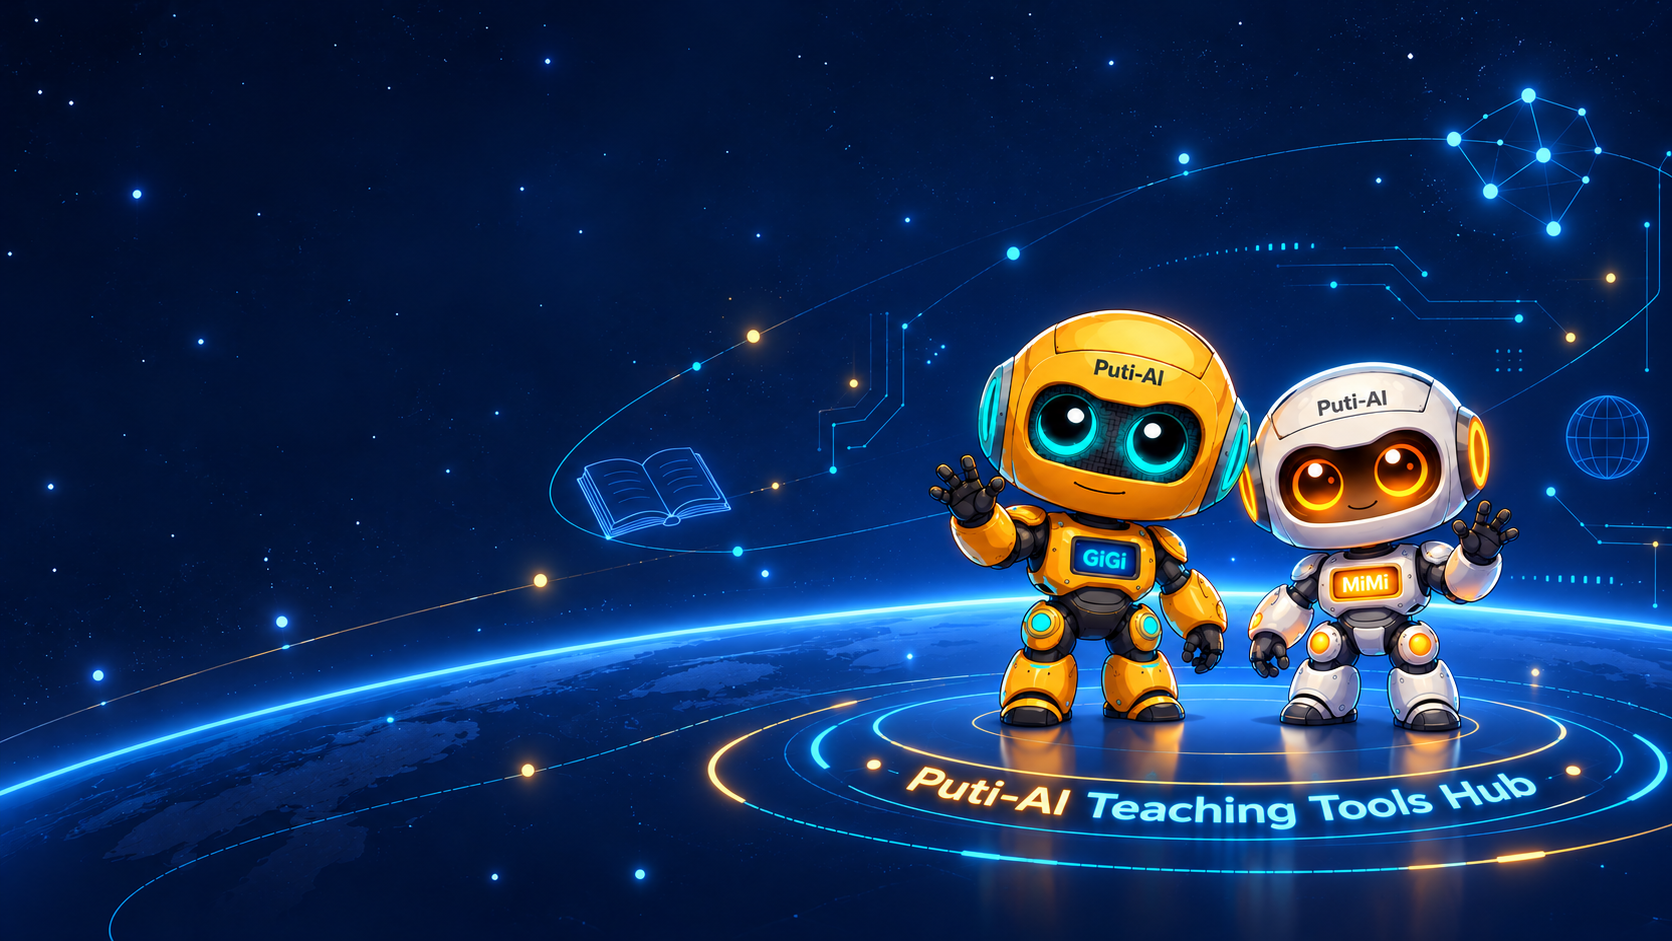
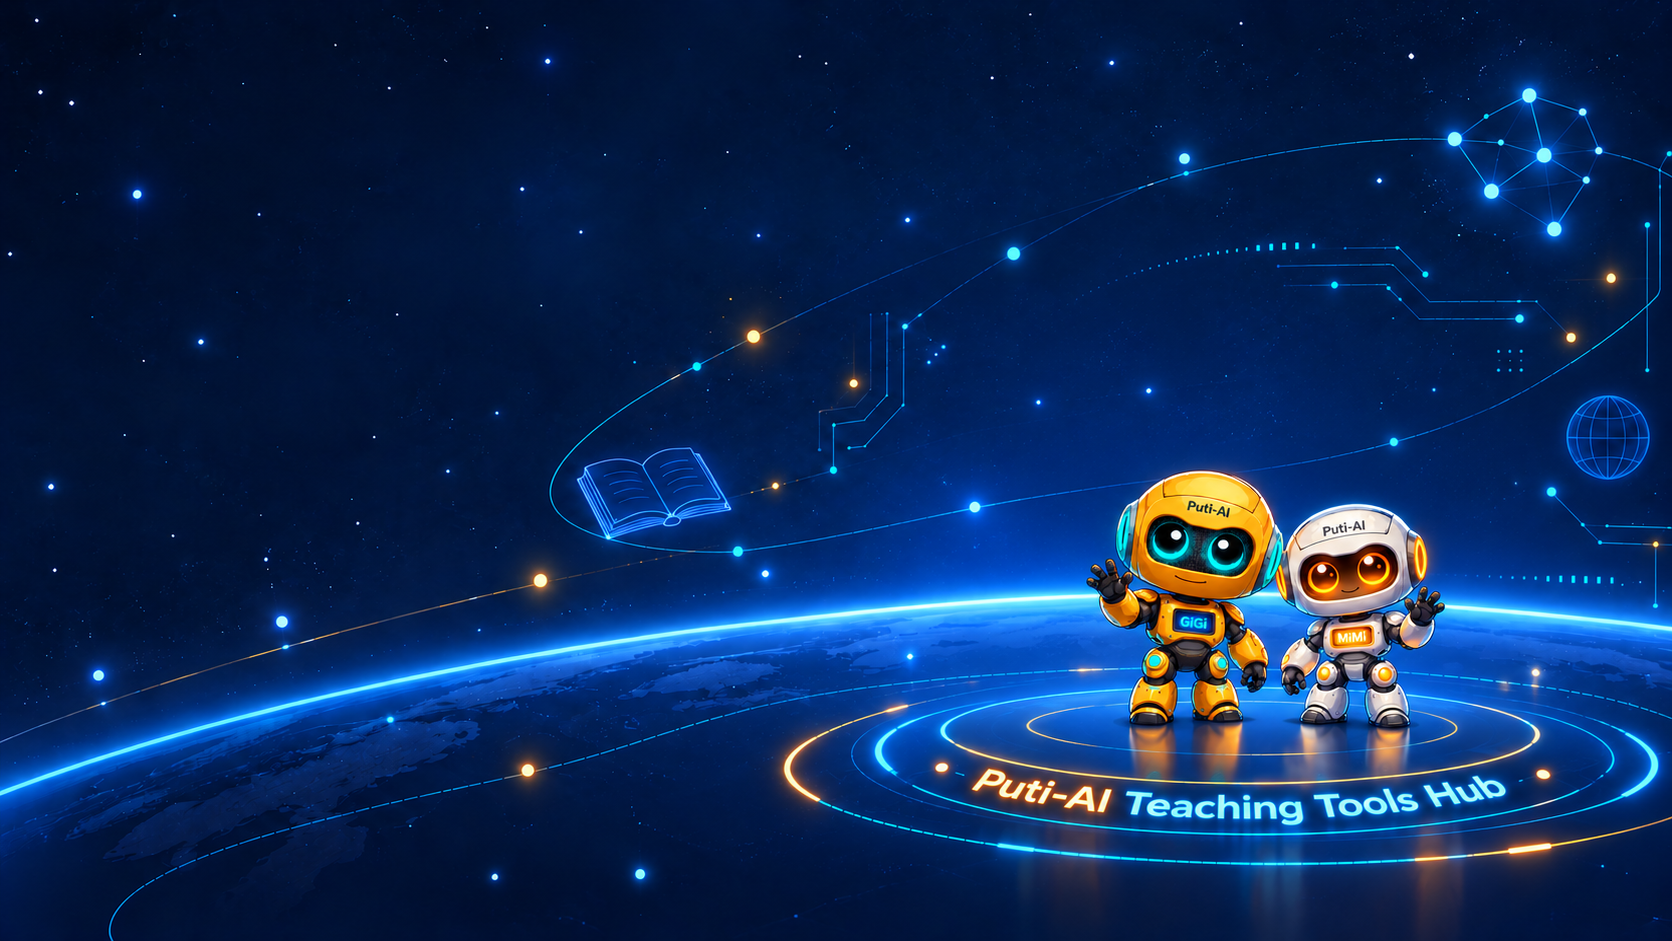
feat: Update new back.png as EdTech Default, add 9 classroom themed wallpapers (Blackboard, Seaside, Sky, Grassland, Flower Sea, Cosmos, Milky Way, Mountains, Ocean World)

diff --git a/js/app.js b/js/app.js
@@ -51,48 +51,64 @@ document.addEventListener('DOMContentLoaded', () => {
   // =========================================================================
   const wallpapers = [
     {
-      id: 'default-back',
-      name: '溫馨黑板 (預設)',
+      id: 'edtech-default',
+      name: '教育科技 (預設)',
       url: './assets/wallpapers/back.png',
       thumb: './assets/wallpapers/back.png'
     },
     {
-      id: 'warm-gradient',
-      name: '日系暖日粉彩',
-      url: 'linear-gradient(135deg, #FFE8CC 0%, #FFD8A8 50%, #FFC078 100%)',
-      isGradient: true,
-      thumb: 'linear-gradient(135deg, #FFE8CC, #FFC078)'
+      id: 'blackboard',
+      name: '黑板',
+      url: 'https://images.unsplash.com/photo-1577896851231-70ef18881754?auto=format&fit=crop&w=1920&q=80',
+      thumb: 'https://images.unsplash.com/photo-1577896851231-70ef18881754?auto=format&fit=crop&w=300&q=60'
     },
     {
-      id: 'classroom-bright',
-      name: '溫馨明亮教室',
-      url: 'https://images.unsplash.com/photo-1580582932707-520aed937b7b?auto=format&fit=crop&w=1920&q=80',
-      thumb: 'https://images.unsplash.com/photo-1580582932707-520aed937b7b?auto=format&fit=crop&w=300&q=60'
+      id: 'seaside',
+      name: '海邊',
+      url: 'https://images.unsplash.com/photo-1507525428034-b723cf961d3e?auto=format&fit=crop&w=1920&q=80',
+      thumb: 'https://images.unsplash.com/photo-1507525428034-b723cf961d3e?auto=format&fit=crop&w=300&q=60'
     },
     {
-      id: 'cozy-desk',
-      name: '木質簡約書桌',
-      url: 'https://images.unsplash.com/photo-1518455027359-f3f8164ba6bd?auto=format&fit=crop&w=1920&q=80',
-      thumb: 'https://images.unsplash.com/photo-1518455027359-f3f8164ba6bd?auto=format&fit=crop&w=300&q=60'
+      id: 'sky',
+      name: '天空',
+      url: 'https://images.unsplash.com/photo-1534088568595-a066f410bcda?auto=format&fit=crop&w=1920&q=80',
+      thumb: 'https://images.unsplash.com/photo-1534088568595-a066f410bcda?auto=format&fit=crop&w=300&q=60'
     },
     {
-      id: 'forest-calm',
-      name: '翠綠森林微風',
-      url: 'https://images.unsplash.com/photo-1448375240586-882707db888b?auto=format&fit=crop&w=1920&q=80',
-      thumb: 'https://images.unsplash.com/photo-1448375240586-882707db888b?auto=format&fit=crop&w=300&q=60'
+      id: 'grassland',
+      name: '草原',
+      url: 'https://images.unsplash.com/photo-1500382017468-9049fed747ef?auto=format&fit=crop&w=1920&q=80',
+      thumb: 'https://images.unsplash.com/photo-1500382017468-9049fed747ef?auto=format&fit=crop&w=300&q=60'
     },
     {
-      id: 'starry-night',
-      name: '靜謐浩瀚星空',
+      id: 'flower-sea',
+      name: '花海',
+      url: 'https://images.unsplash.com/photo-1490750967868-88aa4486c946?auto=format&fit=crop&w=1920&q=80',
+      thumb: 'https://images.unsplash.com/photo-1490750967868-88aa4486c946?auto=format&fit=crop&w=300&q=60'
+    },
+    {
+      id: 'cosmos',
+      name: '宇宙',
+      url: 'https://images.unsplash.com/photo-1451187580459-43490279c0fa?auto=format&fit=crop&w=1920&q=80',
+      thumb: 'https://images.unsplash.com/photo-1451187580459-43490279c0fa?auto=format&fit=crop&w=300&q=60'
+    },
+    {
+      id: 'milkyway',
+      name: '銀河',
       url: 'https://images.unsplash.com/photo-1506703719100-a0f3a48c0f86?auto=format&fit=crop&w=1920&q=80',
       thumb: 'https://images.unsplash.com/photo-1506703719100-a0f3a48c0f86?auto=format&fit=crop&w=300&q=60'
     },
     {
-      id: 'morandi-green',
-      name: '莫蘭迪鼠尾草',
-      url: 'linear-gradient(135deg, #D8F3DC 0%, #B7E4C7 50%, #95D5B2 100%)',
-      isGradient: true,
-      thumb: 'linear-gradient(135deg, #D8F3DC, #95D5B2)'
+      id: 'mountain',
+      name: '山岳',
+      url: 'https://images.unsplash.com/photo-1464822759023-fed622ff2c3b?auto=format&fit=crop&w=1920&q=80',
+      thumb: 'https://images.unsplash.com/photo-1464822759023-fed622ff2c3b?auto=format&fit=crop&w=300&q=60'
+    },
+    {
+      id: 'ocean-world',
+      name: '海洋世界',
+      url: 'https://images.unsplash.com/photo-1544551763-46a013bb70d5?auto=format&fit=crop&w=1920&q=80',
+      thumb: 'https://images.unsplash.com/photo-1544551763-46a013bb70d5?auto=format&fit=crop&w=300&q=60'
     }
   ];
 

diff --git a/public/js/app.js b/public/js/app.js
@@ -51,48 +51,64 @@ document.addEventListener('DOMContentLoaded', () => {
   // =========================================================================
   const wallpapers = [
     {
-      id: 'default-back',
-      name: '溫馨黑板 (預設)',
+      id: 'edtech-default',
+      name: '教育科技 (預設)',
       url: './assets/wallpapers/back.png',
       thumb: './assets/wallpapers/back.png'
     },
     {
-      id: 'warm-gradient',
-      name: '日系暖日粉彩',
-      url: 'linear-gradient(135deg, #FFE8CC 0%, #FFD8A8 50%, #FFC078 100%)',
-      isGradient: true,
-      thumb: 'linear-gradient(135deg, #FFE8CC, #FFC078)'
+      id: 'blackboard',
+      name: '黑板',
+      url: 'https://images.unsplash.com/photo-1577896851231-70ef18881754?auto=format&fit=crop&w=1920&q=80',
+      thumb: 'https://images.unsplash.com/photo-1577896851231-70ef18881754?auto=format&fit=crop&w=300&q=60'
     },
     {
-      id: 'classroom-bright',
-      name: '溫馨明亮教室',
-      url: 'https://images.unsplash.com/photo-1580582932707-520aed937b7b?auto=format&fit=crop&w=1920&q=80',
-      thumb: 'https://images.unsplash.com/photo-1580582932707-520aed937b7b?auto=format&fit=crop&w=300&q=60'
+      id: 'seaside',
+      name: '海邊',
+      url: 'https://images.unsplash.com/photo-1507525428034-b723cf961d3e?auto=format&fit=crop&w=1920&q=80',
+      thumb: 'https://images.unsplash.com/photo-1507525428034-b723cf961d3e?auto=format&fit=crop&w=300&q=60'
     },
     {
-      id: 'cozy-desk',
-      name: '木質簡約書桌',
-      url: 'https://images.unsplash.com/photo-1518455027359-f3f8164ba6bd?auto=format&fit=crop&w=1920&q=80',
-      thumb: 'https://images.unsplash.com/photo-1518455027359-f3f8164ba6bd?auto=format&fit=crop&w=300&q=60'
+      id: 'sky',
+      name: '天空',
+      url: 'https://images.unsplash.com/photo-1534088568595-a066f410bcda?auto=format&fit=crop&w=1920&q=80',
+      thumb: 'https://images.unsplash.com/photo-1534088568595-a066f410bcda?auto=format&fit=crop&w=300&q=60'
     },
     {
-      id: 'forest-calm',
-      name: '翠綠森林微風',
-      url: 'https://images.unsplash.com/photo-1448375240586-882707db888b?auto=format&fit=crop&w=1920&q=80',
-      thumb: 'https://images.unsplash.com/photo-1448375240586-882707db888b?auto=format&fit=crop&w=300&q=60'
+      id: 'grassland',
+      name: '草原',
+      url: 'https://images.unsplash.com/photo-1500382017468-9049fed747ef?auto=format&fit=crop&w=1920&q=80',
+      thumb: 'https://images.unsplash.com/photo-1500382017468-9049fed747ef?auto=format&fit=crop&w=300&q=60'
     },
     {
-      id: 'starry-night',
-      name: '靜謐浩瀚星空',
+      id: 'flower-sea',
+      name: '花海',
+      url: 'https://images.unsplash.com/photo-1490750967868-88aa4486c946?auto=format&fit=crop&w=1920&q=80',
+      thumb: 'https://images.unsplash.com/photo-1490750967868-88aa4486c946?auto=format&fit=crop&w=300&q=60'
+    },
+    {
+      id: 'cosmos',
+      name: '宇宙',
+      url: 'https://images.unsplash.com/photo-1451187580459-43490279c0fa?auto=format&fit=crop&w=1920&q=80',
+      thumb: 'https://images.unsplash.com/photo-1451187580459-43490279c0fa?auto=format&fit=crop&w=300&q=60'
+    },
+    {
+      id: 'milkyway',
+      name: '銀河',
       url: 'https://images.unsplash.com/photo-1506703719100-a0f3a48c0f86?auto=format&fit=crop&w=1920&q=80',
       thumb: 'https://images.unsplash.com/photo-1506703719100-a0f3a48c0f86?auto=format&fit=crop&w=300&q=60'
     },
     {
-      id: 'morandi-green',
-      name: '莫蘭迪鼠尾草',
-      url: 'linear-gradient(135deg, #D8F3DC 0%, #B7E4C7 50%, #95D5B2 100%)',
-      isGradient: true,
-      thumb: 'linear-gradient(135deg, #D8F3DC, #95D5B2)'
+      id: 'mountain',
+      name: '山岳',
+      url: 'https://images.unsplash.com/photo-1464822759023-fed622ff2c3b?auto=format&fit=crop&w=1920&q=80',
+      thumb: 'https://images.unsplash.com/photo-1464822759023-fed622ff2c3b?auto=format&fit=crop&w=300&q=60'
+    },
+    {
+      id: 'ocean-world',
+      name: '海洋世界',
+      url: 'https://images.unsplash.com/photo-1544551763-46a013bb70d5?auto=format&fit=crop&w=1920&q=80',
+      thumb: 'https://images.unsplash.com/photo-1544551763-46a013bb70d5?auto=format&fit=crop&w=300&q=60'
     }
   ];
 
